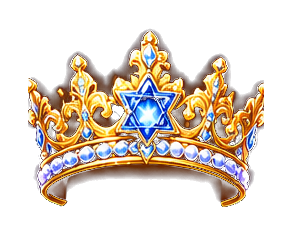
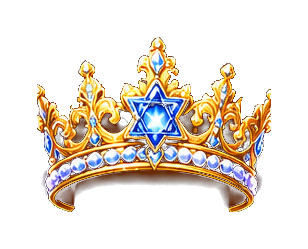
תיקון תמונות

diff --git a/face-magic/app.js b/face-magic/app.js
@@ -16,7 +16,7 @@ const DATA = {
  headwear:[['none','בלי כובע',null,'🚫'],['crown_princess_star','כתר נסיכת חנוכה'],['headband_fairy_hanukkah','קשת פיית חנוכה'],['hat_rainbow_magic','כובע קשת קסום'],['headband_princess_rainbow','קשת נסיכות וסביבונים'],['crown_menorah','כתר חנוכייה'],['crown_star','כתר מגן דוד'],['crown_candles','כתר נרות'],['hat_magic','כובע קסמים'],['kippah','כיפה חגיגית'],['headband_dreidel','קשת סביבונים']],
  fun:[['none','בלי שפם',null,'🚫'],['moustache_dreidel','שפם סביבונים',null,'🥸'],['moustache_gold','שפם זהב',null,'〰'],['moustache_fire','שפם להבות',null,'🔥'],['effect_stars','כוכבים עפים',null,'✨'],['effect_dreidel','סביבונים מסתובבים',null,'🌀'],['effect_coins','גשם מטבעות',null,'🪙'],['effect_fireworks','זיקוקי חנוכה',null,'🎆']]
 };
-const state={tab:'tattoos',tattoo:'tattoo_menorah_rainbow',headwear:'crown_princess_star',moustache:'none',effect:'effect_stars',size:1.10,both:true,facing:'user',running:false,stream:null,model:null,faces:null,lastVideoTime:-1,lastDetect:0,painting:false,pending:false};
+const state={tab:'tattoos',tattoo:'tattoo_menorah_rainbow',headwear:'crown_princess_star',moustache:'none',effect:'effect_stars',tattooSize:1.05,headwearSize:1.05,tattooPosition:'both',facing:'user',running:false,stream:null,model:null,faces:null,lastVideoTime:-1,lastDetect:0,painting:false,pending:false};
 const allAssetNames=[...new Set([...DATA.tattoos,...DATA.headwear].map(x=>x[0]).filter(x=>x!=='none'))];
 const imgs={};
 for(const name of allAssetNames){const im=new Image();im.src=`assets/${name}.png`;imgs[name]=im;}
@@ -31,8 +31,9 @@ function tabs(){document.querySelectorAll('[data-tab]').forEach(b=>{b.classList.
  refreshSelected();}
 function refreshSelected(){document.querySelectorAll('.choice').forEach(b=>{const id=b.dataset.id;const sel=state.tab==='tattoos'?state.tattoo===id:state.tab==='headwear'?state.headwear===id:id.startsWith('effect')?state.effect===id:state.moustache===id;b.classList.toggle('selected',sel);b.setAttribute('aria-pressed',String(sel));});}
 document.querySelectorAll('[data-tab]').forEach(b=>b.addEventListener('click',()=>{state.tab=b.dataset.tab;tabs();}));
-$('#size').addEventListener('input',e=>state.size=Number(e.target.value)/100);
-$('#bothCheeks').addEventListener('change',e=>state.both=e.target.checked);
+$('#tattooSize').addEventListener('input',e=>state.tattooSize=Number(e.target.value)/100);
+$('#headwearSize').addEventListener('input',e=>state.headwearSize=Number(e.target.value)/100);
+document.querySelectorAll('input[name="tattooPosition"]').forEach(radio=>radio.addEventListener('change',e=>{if(e.target.checked)state.tattooPosition=e.target.value;}));
 $('#resetButton').addEventListener('click',()=>{state.tattoo='none';state.headwear='none';state.moustache='none';state.effect='none';tabs();});
 tabs();
 function imageAt(name,x,y,width,height=0,angle=0,keepInFrame=false){const im=asset(name);if(!im)return;const h=height||width*im.naturalHeight/im.naturalWidth;let px=x,py=y;if(keepInFrame){const pad=6;px=Math.max(width/2+pad,Math.min(video.videoWidth-width/2-pad,px));py=Math.max(h/2+pad,Math.min(video.videoHeight-h/2-pad,py));}ctx.save();ctx.translate(px,py);ctx.rotate(angle);ctx.drawImage(im,-width/2,-h/2,width,h);ctx.restore();}
@@ -47,16 +48,16 @@ function moustache(x,y,w,tilt,kind){
  ctx.restore();if(kind==='moustache_dreidel'){imageAt('tattoo_dreidels',x-w*.44,y-w*.1,w*.34,0,tilt,true);imageAt('tattoo_dreidels',x+w*.44,y-w*.1,w*.34,0,tilt,true);}if(kind==='moustache_fire'){sparkle(x-w*.56,y-w*.3,w*.07,0);sparkle(x+w*.55,y-w*.3,w*.07,0);}}
 function faceEffects(landmarks,i,now){
  const left=pos(landmarks,234),right=pos(landmarks,454),forehead=pos(landmarks,10),chin=pos(landmarks,152),leftEye=pos(landmarks,33),rightEye=pos(landmarks,263),nose=pos(landmarks,2);
- const width=span(left,right),height=span(forehead,chin),rot=Math.atan2(rightEye.y-leftEye.y,rightEye.x-leftEye.x),s=state.size;
+ const width=span(left,right),height=span(forehead,chin),rot=Math.atan2(rightEye.y-leftEye.y,rightEye.x-leftEye.x);
  const cheeks=[pos(landmarks,205),pos(landmarks,425)];
  if(state.tattoo!=='none'){
-   const targets=state.both?cheeks:[cheeks[0]];
-   for(let j=0;j<targets.length;j++){let p=targets[j];imageAt(state.tattoo,p.x,p.y,width*.57*s,0,rot+(j===1?-.06:.06),true);}
+   const targets=state.tattooPosition==='forehead'?[pos(landmarks,151)]:state.tattooPosition==='right'?[cheeks[0]]:cheeks;
+   for(let j=0;j<targets.length;j++){let p=targets[j];const w=width*(state.tattooPosition==='forehead'?.42:.57)*state.tattooSize;imageAt(state.tattoo,p.x,p.y,w,0,rot+(j===1?-.06:.06),true);}
  }
  if(state.headwear!=='none'){
    // Larger headgear follows the face; sticker sits above the forehead.
    let cy=forehead.y-height*(state.headwear==='kippah'?.33:.27);
-   imageAt(state.headwear,forehead.x,cy,width*(state.headwear==='hat_magic'?1.42:state.headwear==='kippah'?1.06:1.36)*s,0,rot,true);
+   imageAt(state.headwear,forehead.x,cy,width*(state.headwear==='hat_magic'?1.42:state.headwear==='kippah'?1.06:1.36)*state.headwearSize,0,rot,true);
  }
  if(state.moustache!=='none') moustache(nose.x,nose.y+height*.105,width*.59*s,rot,state.moustache);
  if(state.effect!=='none'){

diff --git a/face-magic/index.html b/face-magic/index.html
@@ -4,7 +4,7 @@
 <meta charset="utf-8"><meta name="viewport" content="width=device-width,initial-scale=1,viewport-fit=cover,user-scalable=no">
 <meta name="theme-color" content="#071333"><meta name="description" content="סטודיו צילום חנוכה עם קעקועים, כובעים וכתרים לכל המשפחה">
 <title>קסם חנוכה ✨ מצלמה לכולם</title>
-<link rel="stylesheet" href="style.css?v=hanukkah-6-fix-assets">
+<link rel="stylesheet" href="style.css?v=hanukkah-7-positions-sizes">
 </head>
 <body>
 <main class="app">
@@ -29,8 +29,14 @@
     <div id="optionArea" class="option-area">
       <div id="choices" class="choices" aria-label="אפשרויות עיצוב"></div>
       <div class="second-row">
-        <div class="scale-wrap"><label for="size">גודל</label><input id="size" type="range" min="65" max="150" value="110" step="5" aria-label="גודל האפקטים"></div>
-        <label class="switch"><input id="bothCheeks" type="checkbox" checked><span>שתי לחיים</span></label>
+        <div class="scale-wrap"><label for="tattooSize">קעקועים</label><input id="tattooSize" type="range" min="60" max="180" value="105" step="5" aria-label="גודל הקעקועים"></div>
+        <div class="scale-wrap"><label for="headwearSize">כתרים וכובעים</label><input id="headwearSize" type="range" min="60" max="180" value="105" step="5" aria-label="גודל כתרים וכובעים"></div>
+        <fieldset class="position-set" aria-label="מיקום קעקועים">
+          <legend>מיקום קעקוע</legend>
+          <label><input type="radio" name="tattooPosition" value="both" checked> שתי לחיים</label>
+          <label><input type="radio" name="tattooPosition" value="right"> לחי אחת</label>
+          <label><input type="radio" name="tattooPosition" value="forehead"> מצח</label>
+        </fieldset>
         <button id="resetButton" class="quiet">🧼 ניקוי</button>
       </div>
     </div>
@@ -50,5 +56,5 @@
     <div id="errorBox" class="error-box" hidden><strong>זיהוי הפנים עדיין לא מוכן</strong><p id="errorDetails"></p><button id="retryButton">🔁 נסו שוב</button></div>
   </section>
 </main>
-<script type="module" src="app.js?v=hanukkah-6-fix-assets"></script>
+<script type="module" src="app.js?v=hanukkah-7-positions-sizes"></script>
 </body></html>

diff --git a/face-magic/style.css b/face-magic/style.css
@@ -71,3 +71,20 @@ button:disabled {opacity:.48;cursor:not-allowed}
 }
 @media(max-height:580px){.brand small{display:none}.choice{height:54px}.choice img{height:31px}.choice .icon{font-size:23px}.second-row{max-height:24px}}
 @media(prefers-reduced-motion:reduce){*{transition:none!important}}
+
+/* Independent tattoo/headwear sizes + forehead/cheek placement. */
+.second-row{max-height:none;flex-wrap:wrap;gap:5px 12px;justify-content:center;padding:5px 2px 2px}
+.scale-wrap{flex:1 1 140px;min-width:130px;max-width:245px}
+.scale-wrap label{white-space:nowrap;font-size:11px}
+.position-set{border:1px solid #ffffff35;border-radius:9px;padding:2px 6px;display:flex;gap:7px;align-items:center;min-width:0;flex-wrap:wrap;margin:0}
+.position-set legend{font-size:10px;padding:0 4px;color:#dbe8ff}
+.position-set label{display:flex;gap:3px;align-items:center;white-space:nowrap;font-size:10px;cursor:pointer}
+.position-set input{accent-color:#ffd472;margin:0}
+@media(max-width:700px){
+ .second-row{gap:4px 8px;padding-top:4px}
+ .scale-wrap{flex:1 1 120px;min-width:114px}
+ .scale-wrap label{font-size:10px}
+ .position-set{gap:4px 8px;justify-content:center}
+ .position-set label{font-size:10px}
+}
+@media(max-height:580px){.second-row{gap:3px 6px}.position-set{padding:1px 4px}}

diff --git a/face-magic/README.md b/face-magic/README.md
@@ -40,3 +40,8 @@
 
 
 עדכון תיקון: הכיתוב "חנוכה שמח" הועבר לתחתית התמונה, והאיורים קיבלו שוליים שקופים נוספים כדי שלא ייחתכו.
+
+## תיקוני הגרסה החדשה
+- קעקועים גם במצח, בנוסף לשתי לחיים או לחי אחת.
+- שני פסי גודל נפרדים לקעקועים ולכתרים/כובעים.
+- עברו עיבוד רקע כדי לצמצם ריבועים בתמונות, אך ייתכנו פריטים עם פגמי שקיפות קלים; יש לבדוק במצלמה.
